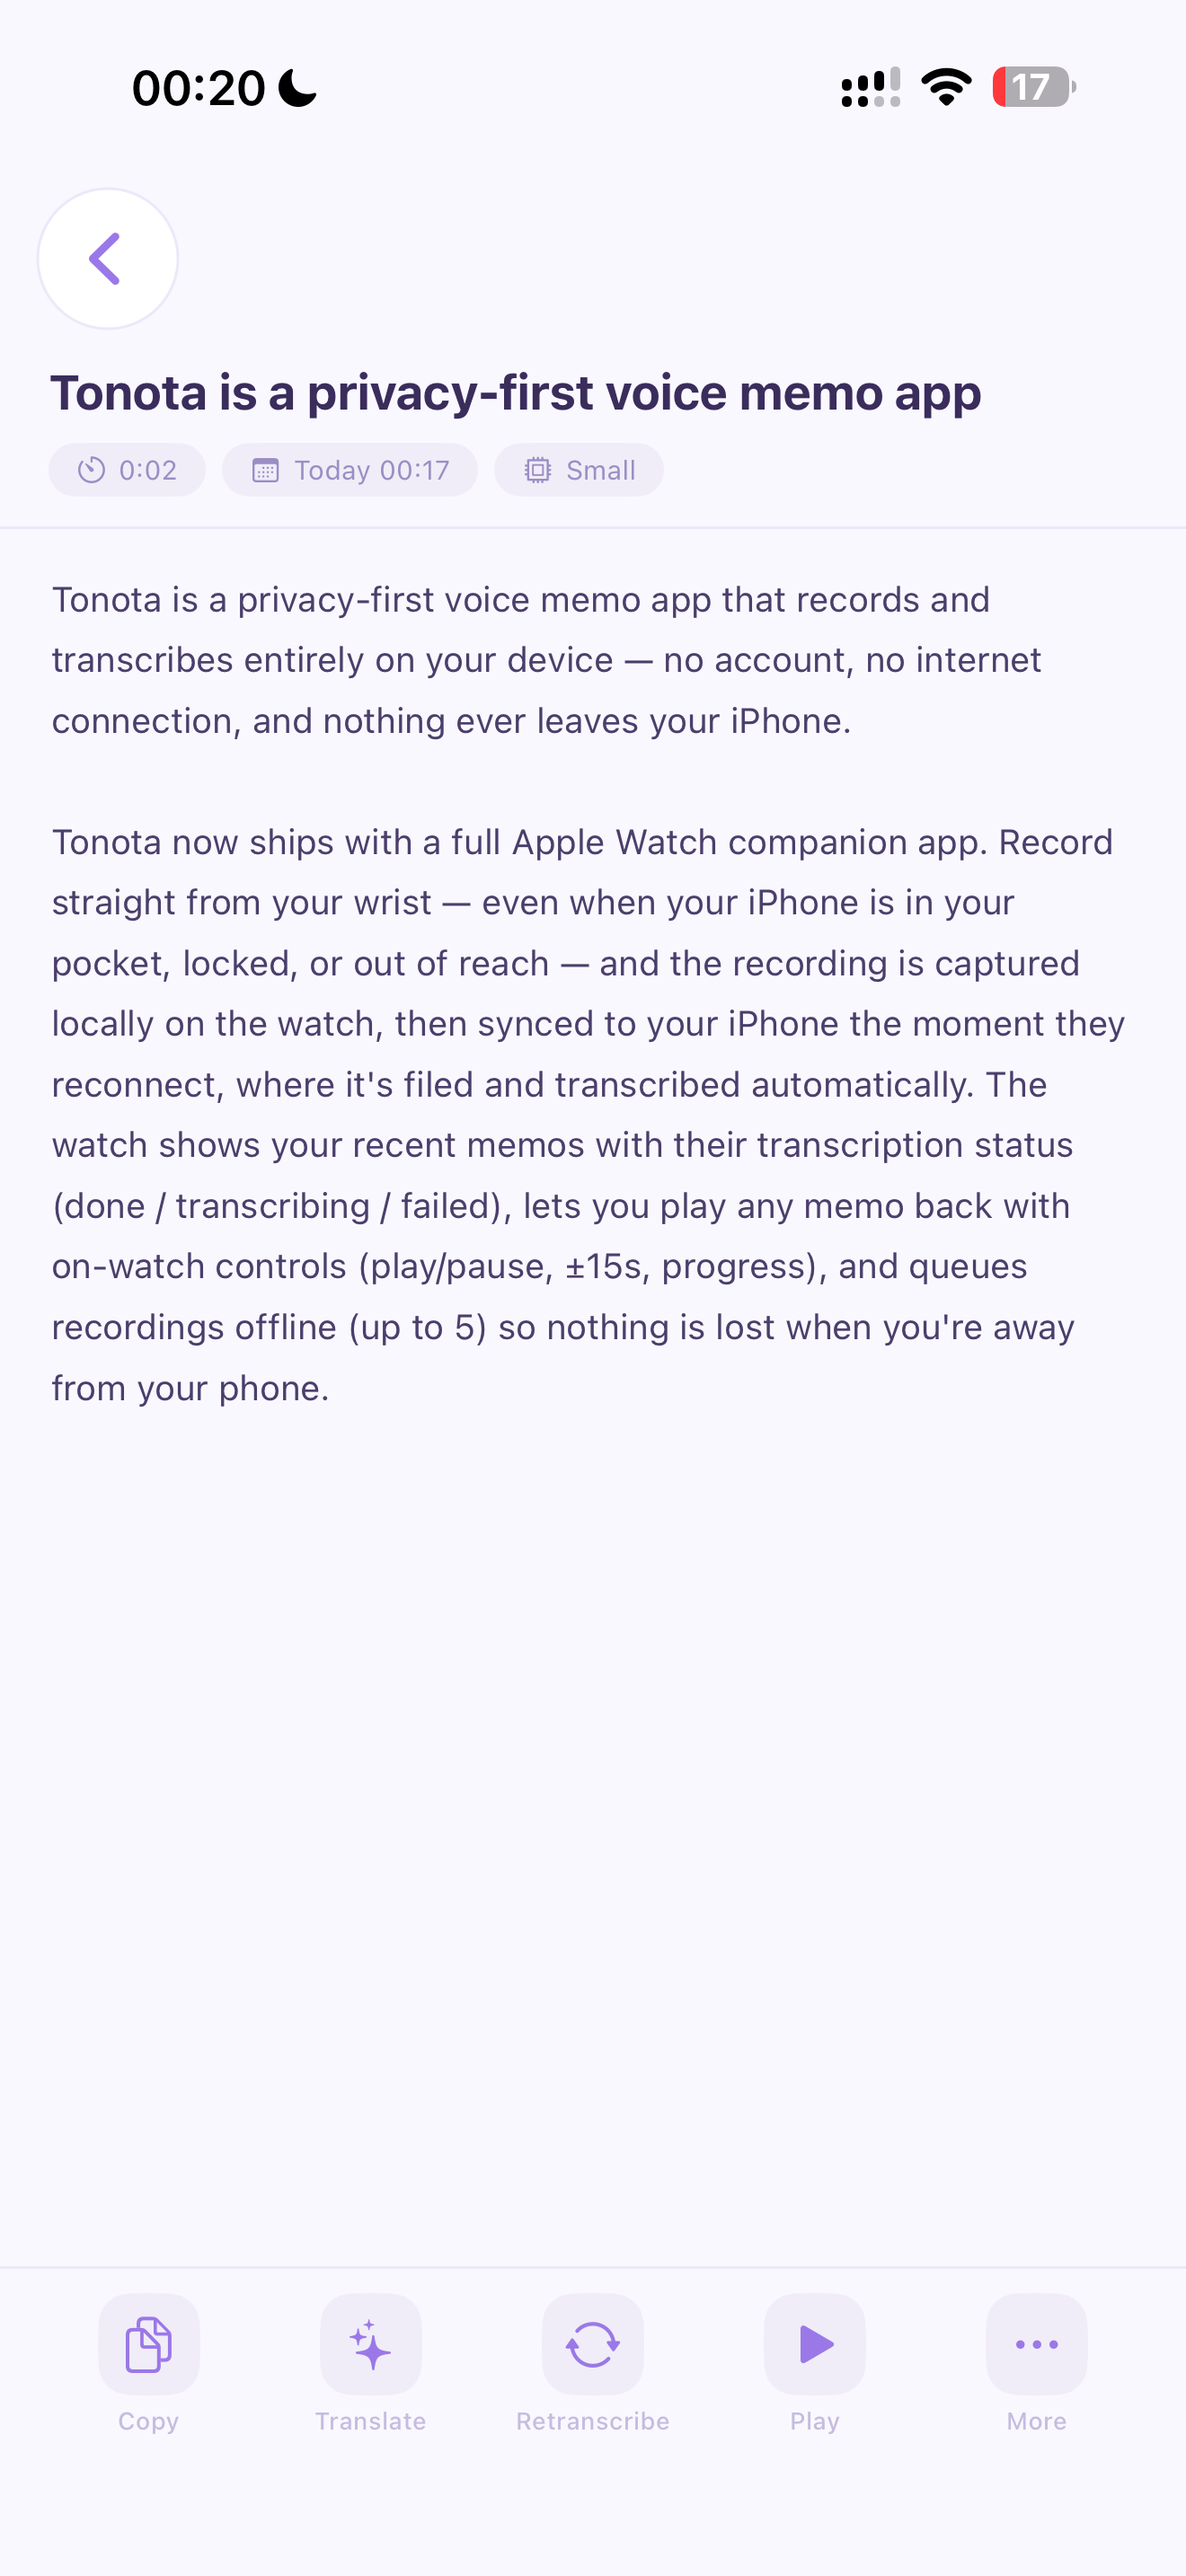
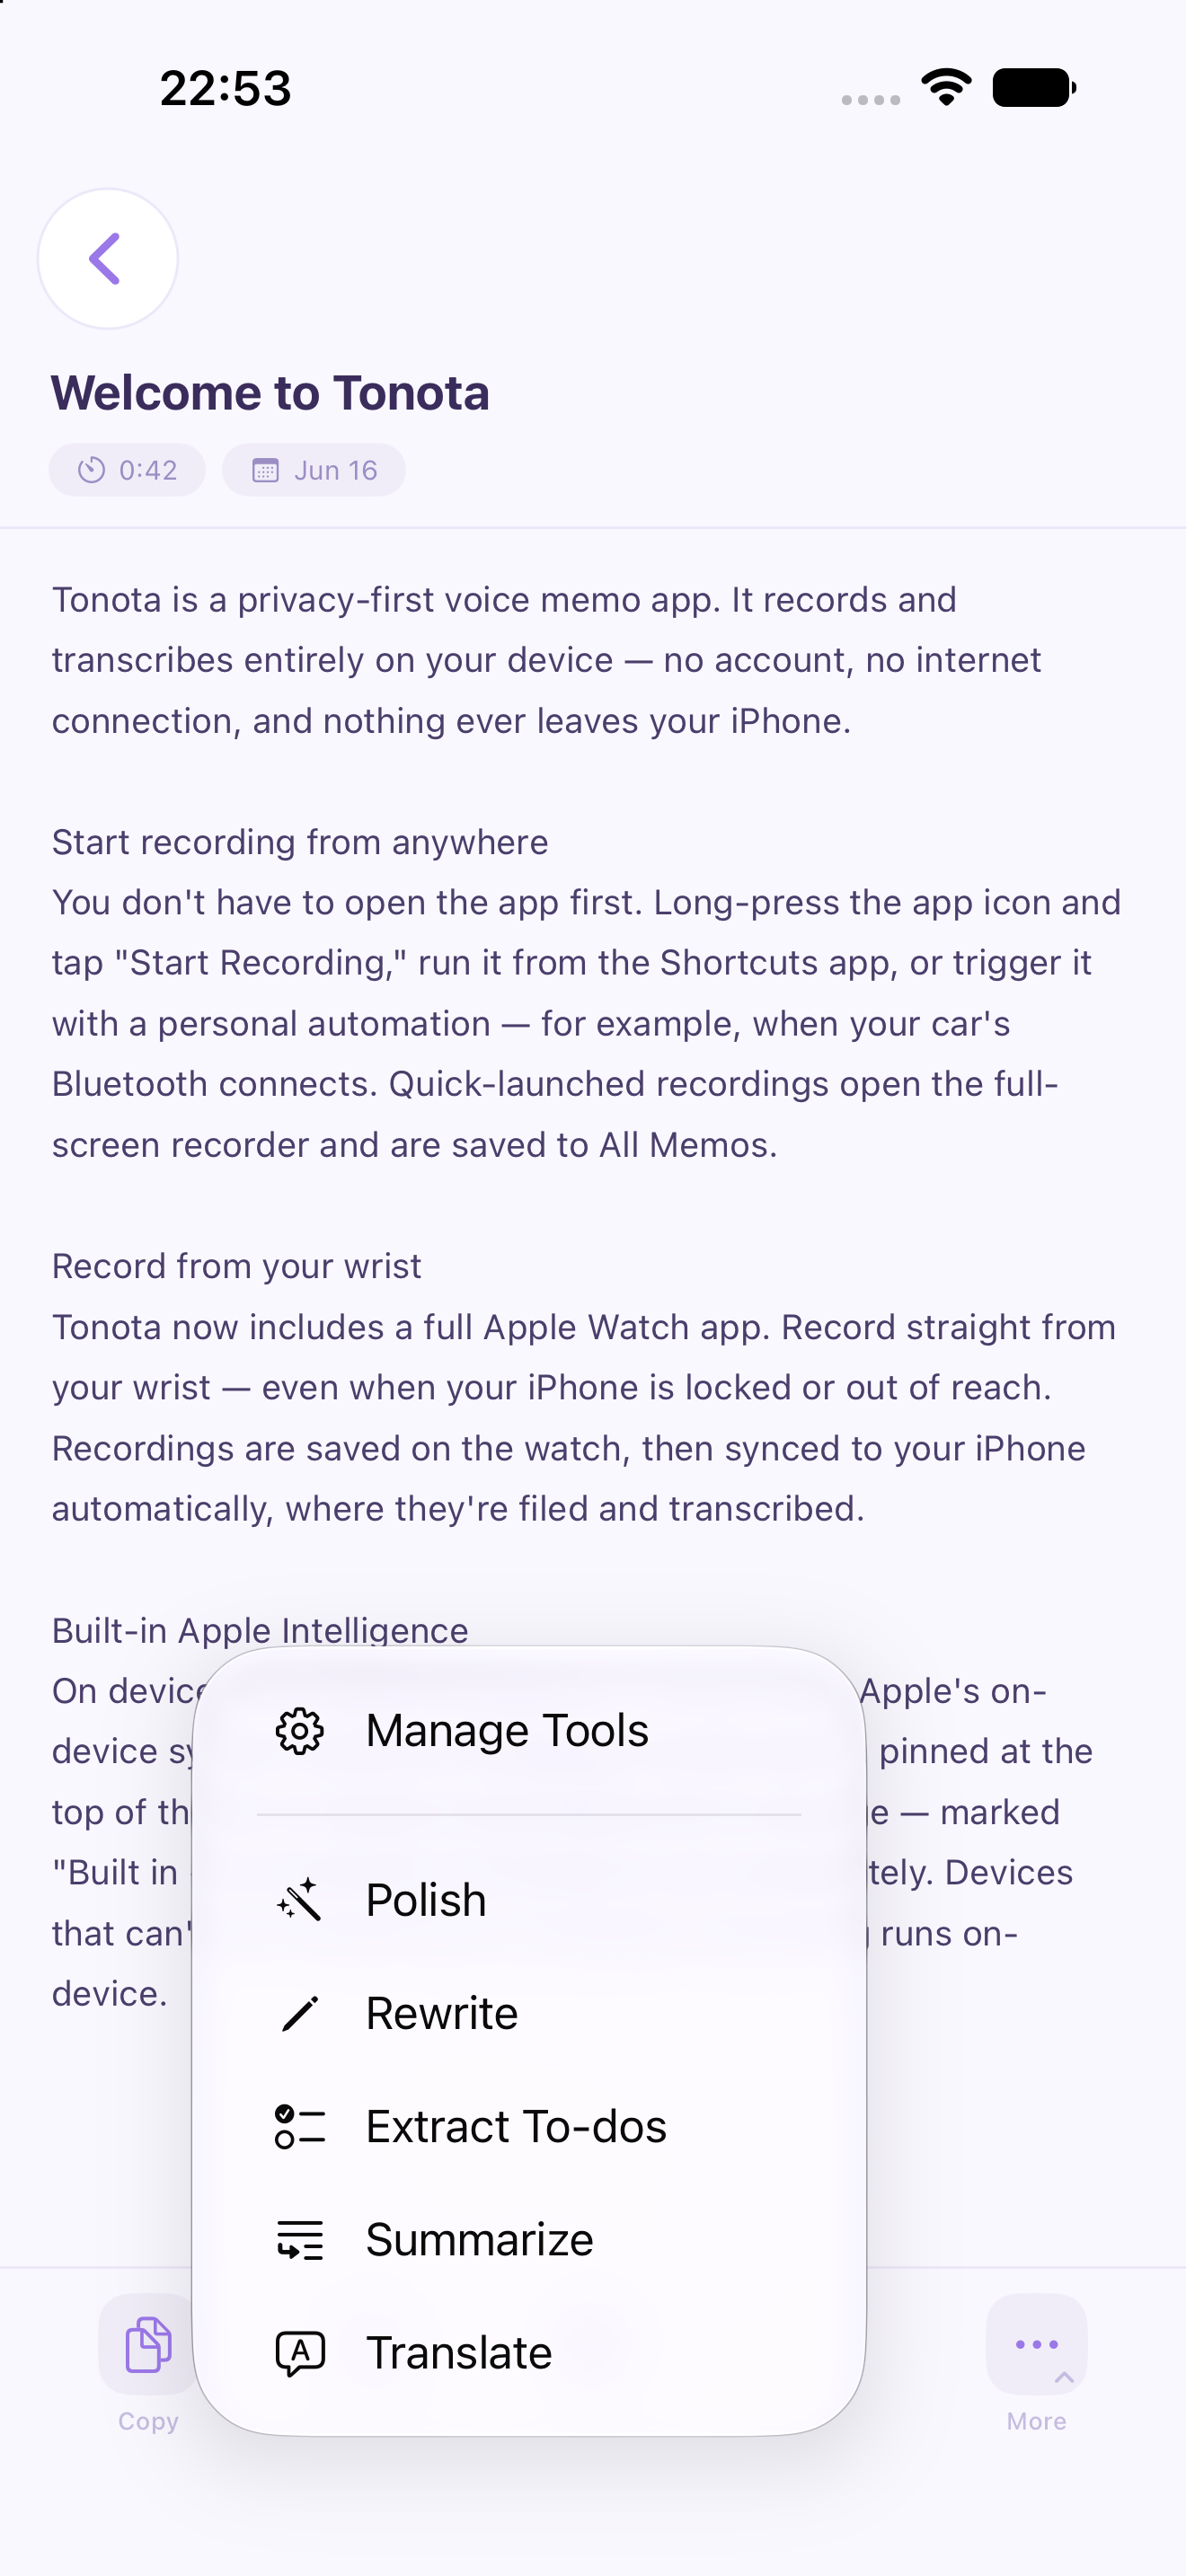
Update landing page and README for v1.8 so public docs reflect on-device translation, AI tools, and Apple Foundation Models.

diff --git a/docs/index.html b/docs/index.html
@@ -31,7 +31,7 @@
     "@context": "https://schema.org",
     "@type": "MobileApplication",
     "name": "Tonota",
-    "softwareVersion": "1.7",
+    "softwareVersion": "1.8",
     "operatingSystem": "iOS 17",
     "applicationCategory": "ProductivityApplication",
     "description": "On-device voice memo recording and AI transcription for iPhone. No cloud, no account, no tracking.",
@@ -738,6 +738,11 @@
   <p class="section-label">Features</p>
   <h2 class="section-title">Everything you need.<br />Nothing you don't.</h2>
   <div class="feat-grid">
+    <div class="feat-card">
+      <div class="feat-icon">🪄</div>
+      <h3>On-device AI translation &amp; tools<span class="feat-version">v1.8</span></h3>
+      <p>Translate a transcript or run built-in AI tools (summarize, extract key points, and more) — all locally. Pick an MLX model or, on supported devices, Apple Foundation Models with no download. Results stream in, the model name is shown, and reasoning stays collapsed by default. Build up to 5 of your own custom tools.</p>
+    </div>
     <div class="feat-card">
       <div class="feat-icon">⌚</div>
       <h3>Apple Watch app<span class="feat-version">v1.7</span></h3>

diff --git a/README.md b/README.md
@@ -34,7 +34,8 @@ Most voice memo apps upload your audio to a server for transcription. Tonota doe
 
 - **Apple Watch companion app** — record directly from your wrist, offline; recordings sync to iPhone and transcribe automatically
 - **On-device transcription** — powered by [WhisperKit](https://github.com/argmaxinc/WhisperKit), up to Whisper Large v3, 10 languages
-- **AI text polishing** — a local LLM (via [MLX](https://github.com/ml-explore/mlx-swift)) turns raw speech into clean, readable text; pick your model with quality ratings
+- **On-device AI translation & tools** — translate transcripts or run built-in/custom AI tools locally via a local LLM ([MLX](https://github.com/ml-explore/mlx-swift)) or, on supported devices, [Apple Foundation Models](https://developer.apple.com/apple-intelligence/); results stream in with the model name shown and reasoning collapsed by default
+- **AI text polishing** — a local LLM turns raw speech into clean, readable text; pick your model with quality ratings
 - **Live dictation mode** — optional real-time transcription while you speak
 - **Record from anywhere** — Siri & Shortcuts actions ("Start Recording", "Stop & Save"), home-screen Quick Action, and a Control Center / Lock Screen button (iOS 18+)
 - **Resumable transcriptions** — interrupted transcriptions are detected on next launch and resumed with one tap
@@ -47,7 +48,7 @@ Most voice memo apps upload your audio to a server for transcription. Tonota doe
 
 Swift / SwiftUI · SwiftData (local-only, no CloudKit) · WhisperKit · mlx-swift-lm
 
-> The story: from first line of code to App Store approval in **9 days** — written up [on LinkedIn](https://www.linkedin.com/feed/update/urn:li:activity:7470456182693056512/). v1.6 build notes [also on LinkedIn](https://www.linkedin.com/posts/janewush_ios-buildinpublic-ondeviceai-ugcPost-7471225779654254592-5pmQ/).
+> The story: from first line of code to App Store approval in **9 days** — written up [on LinkedIn](https://www.linkedin.com/feed/update/urn:li:activity:7470456182693056512/). v1.6 build notes [also on LinkedIn](https://www.linkedin.com/posts/janewush_ios-buildinpublic-ondeviceai-ugcPost-7471225779654254592-5pmQ/), and v1.7 (Apple Watch) [on LinkedIn too](https://www.linkedin.com/posts/janewush_ios-buildinpublic-ondeviceai-activity-7475131511336525825-v-kX).
 
 ## Open-source acknowledgements
 
@@ -62,6 +63,11 @@ Model acknowledgements:
 
 - Speech recognition models are downloaded from [argmaxinc/whisperkit-coreml](https://huggingface.co/argmaxinc/whisperkit-coreml), based on the OpenAI Whisper model family.
 - Local LLM polishing models are not bundled with Tonota. They are downloaded from Hugging Face through `mlx-swift-lm` only when the user chooses to install one. The selectable Qwen2.5/Qwen3 MLX community conversions are listed as Apache 2.0; optional/custom models keep their own upstream model licenses.
+- On supported devices, Tonota can also use [Apple Foundation Models](https://developer.apple.com/apple-intelligence/) (part of Apple Intelligence) as an optional on-device language model. It is a system framework provided by Apple, not bundled with Tonota, and its use is governed by Apple's software license and Apple Intelligence terms.
+
+## What's new in 1.8
+
+On-device AI gets a big upgrade. Translate a transcript or run built-in AI tools — summarize, extract key points, and more — entirely on your phone. Choose an MLX local model, or on supported devices use **Apple Foundation Models** (Apple Intelligence) with no download at all. Results stream in as they generate, the active model name is shown, and the model's reasoning stays collapsed by default. You can also create up to 5 of your own custom tools. Models that exceed your device's memory are hidden automatically.
 
 ## What's new in 1.7
 